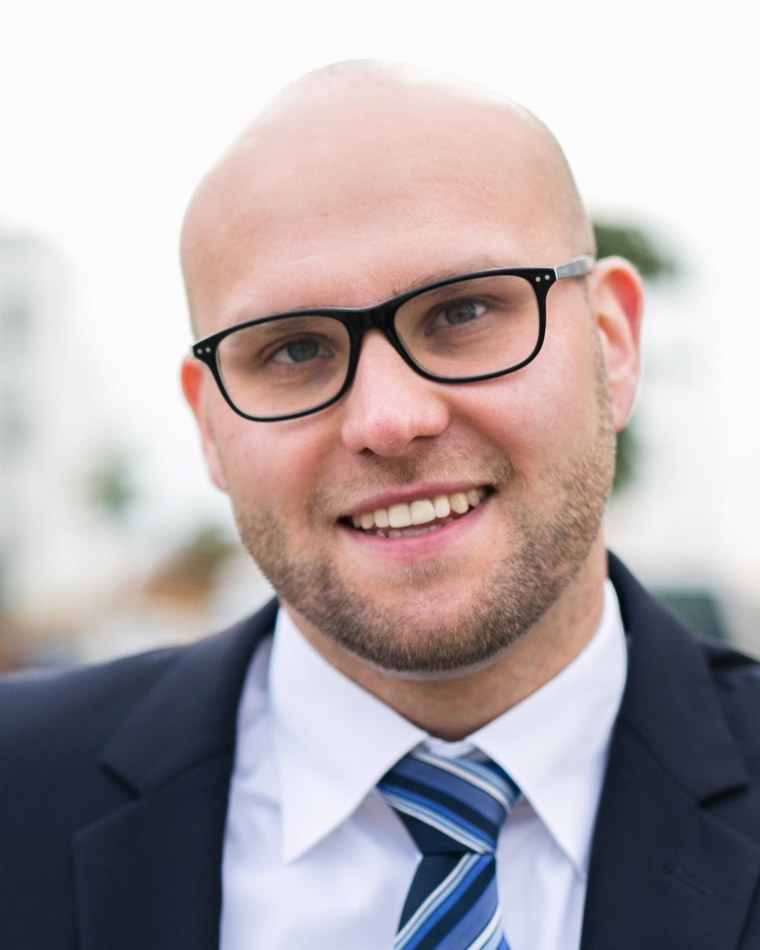
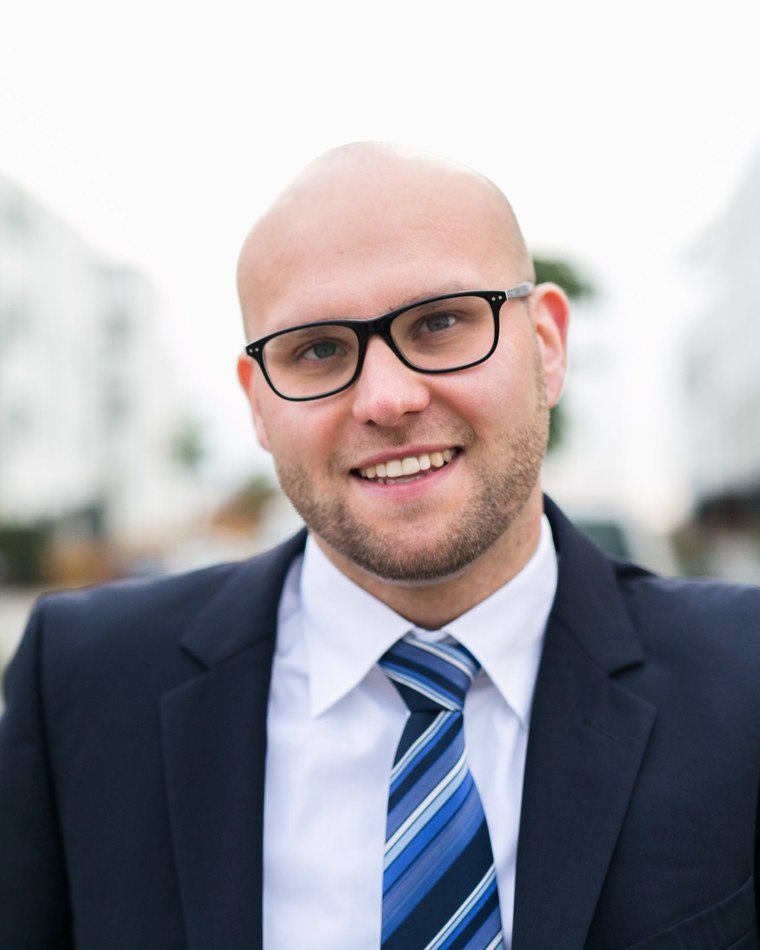
content: Hero-Porträt kleiner (weiter gezoomt + Spalte 340px)

diff --git a/index.html b/index.html
@@ -1083,7 +1083,7 @@
 
   /* Advisory-Hero: Porträt + Statement */
   body.theme-light .hero-content { align-items:center; }
-  body.theme-light .hero-right { flex:0 0 400px; }
+  body.theme-light .hero-right { flex:0 0 340px; }
   .hero-portrait { margin:0; }
   .hero-portrait img { width:100%; aspect-ratio:4/5; object-fit:cover; object-position:center 22%; display:block; border:1px solid var(--line); border-radius:2px; box-shadow:0 36px 80px -46px rgba(22,20,15,.55); filter:saturate(.96); }
   .hero-portrait figcaption { margin-top:14px; font-size:12px; letter-spacing:.4px; color:var(--ink-mute); display:flex; align-items:center; gap:10px; }
